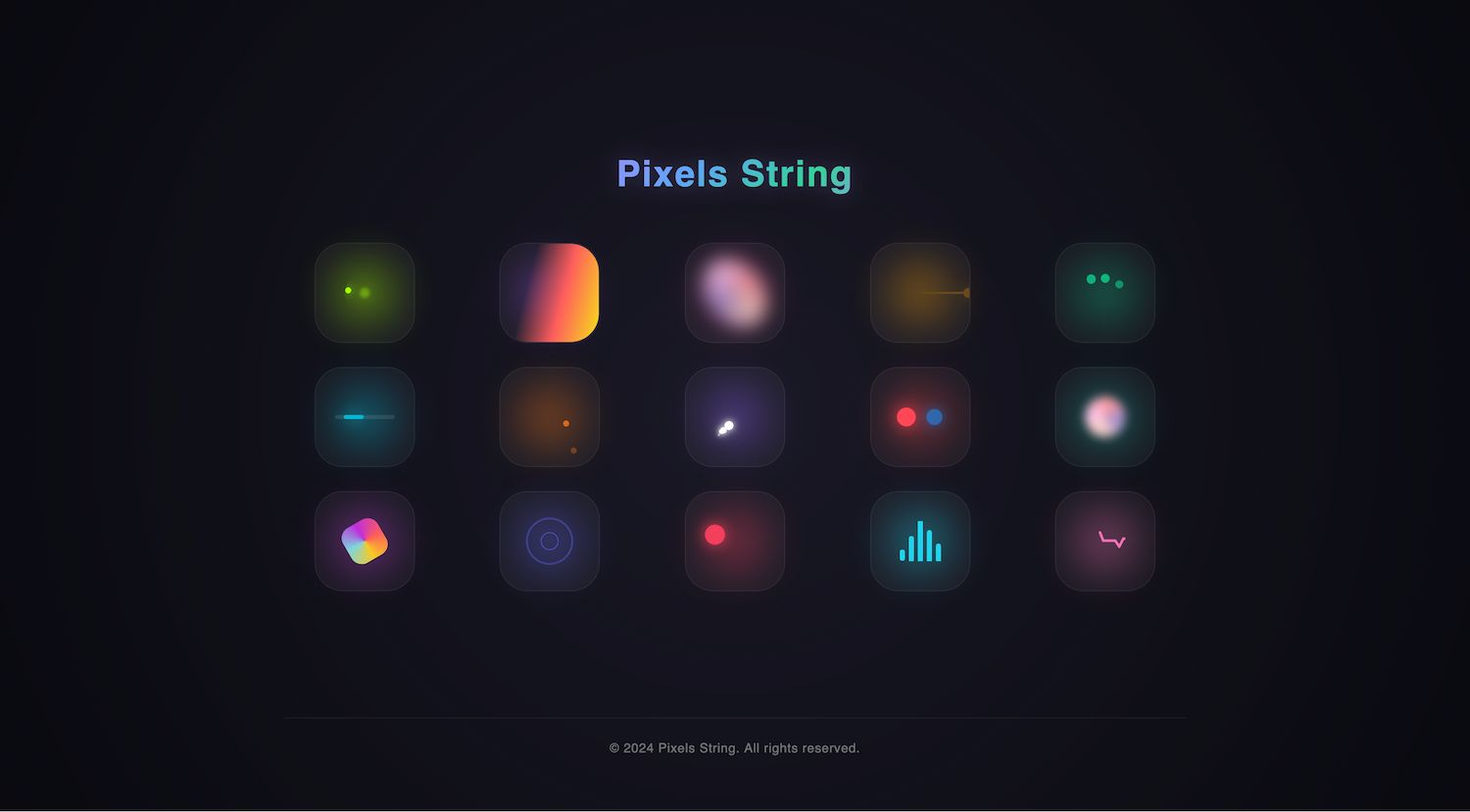
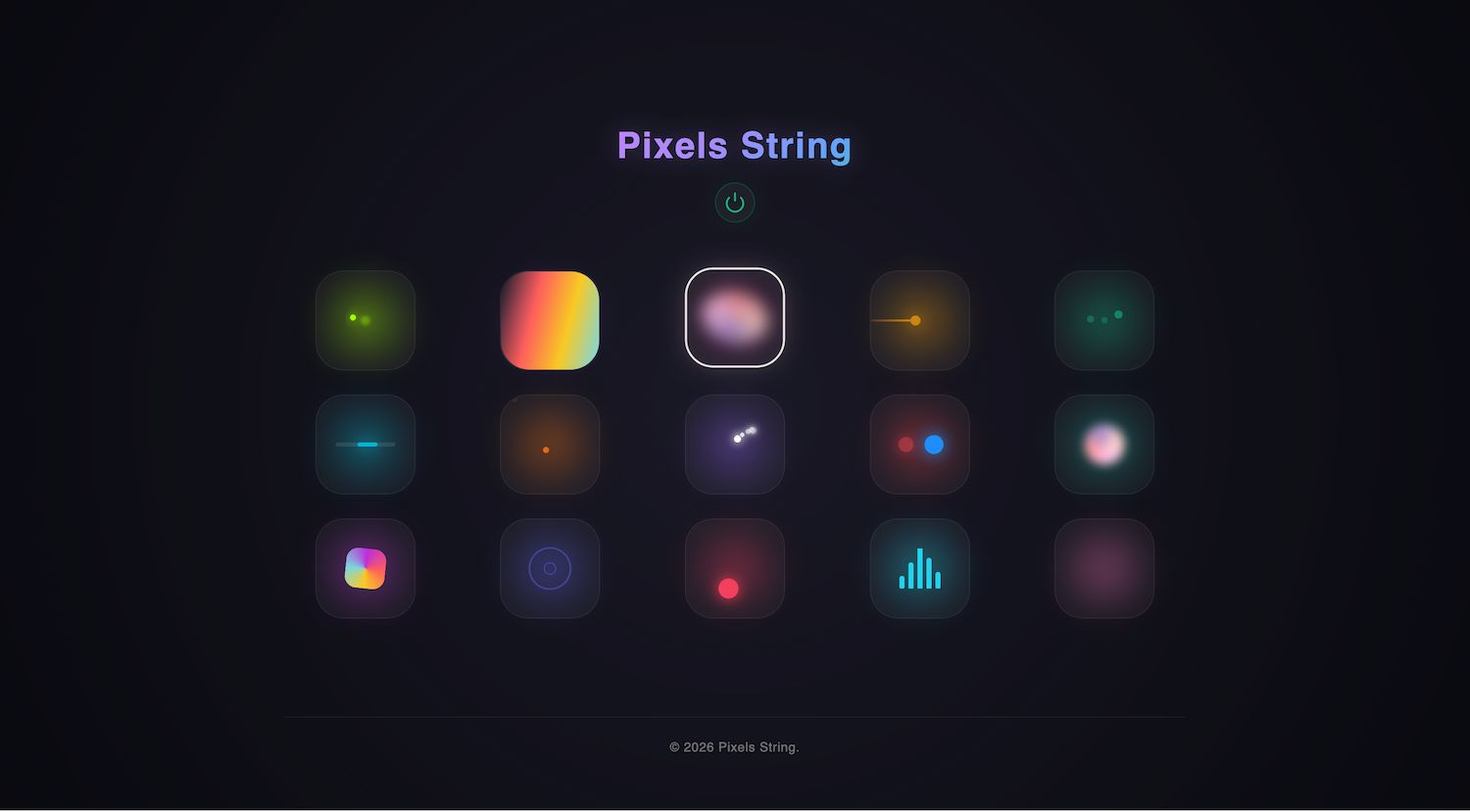
feat: adds power button to the dashboard page, updates screenshot

diff --git a/index.html b/index.html
@@ -98,7 +98,69 @@
             100% { background-position: 200% center; }
         }
 
+        /* --- POWER TOGGLE --- */
+        .power-toggle {
+            margin-top: 1rem;
+            padding: 0.5rem;
+            border-radius: 999px;
+            background: rgba(255, 255, 255, 0.04);
+            backdrop-filter: blur(6px);
+            border: 1px solid rgba(255, 255, 255, 0.08);
+            cursor: pointer;
+            user-select: none;
+            transition: all 0.3s ease;
+            display: flex;
+            align-items: center;
+            justify-content: center;
+            position: relative;
+        }
 
+        .power-toggle .power-icon {
+            width: 22px;
+            height: 22px;
+            fill: none;
+            stroke: currentColor;
+            stroke-width: 2;
+            stroke-linecap: round;
+            stroke-linejoin: round;
+            color: #10b981;
+            transition: color 0.4s ease;
+        }
+
+        .power-toggle:hover {
+            background: rgba(255, 255, 255, 0.08);
+            border-color: rgba(255, 255, 255, 0.15);
+            transform: translateY(-1px);
+        }
+
+        .power-toggle:active {
+            transform: scale(0.95);
+        }
+
+        .power-toggle:focus-visible {
+            outline: 2px solid #06b6d4;
+            outline-offset: 4px;
+        }
+
+        .power-toggle.off {
+            color: #6b7280;
+            border-color: rgba(107, 114, 128, 0.15);
+            box-shadow: none;
+        }
+
+        .power-toggle.off .power-icon {
+            color: #6b7280;
+        }
+
+        .power-toggle.on {
+            border-color: rgba(16, 185, 129, 0.25);
+            box-shadow: 0 0 20px rgba(16, 185, 129, 0.08), inset 0 0 15px rgba(16, 185, 129, 0.04);
+        }
+
+        .power-toggle.is-loading { opacity: 0.6; cursor: wait; }
+        .power-toggle.is-success { border-color: rgba(16, 185, 129, 0.5); box-shadow: 0 0 25px rgba(16, 185, 129, 0.2); }
+        .power-toggle.is-error { border-color: rgba(239, 68, 68, 0.5); box-shadow: 0 0 25px rgba(239, 68, 68, 0.2); }
+        .power-toggle.is-error .power-icon { color: #ef4444; }
 
         /* --- GRID --- */
         .grid-container {
@@ -145,7 +207,7 @@
         .card:active { transform: scale(0.95); }
 
         /* Tooltip */
-        .card[data-tooltip]:hover::after {
+        [data-tooltip]:hover::after {
             content: attr(data-tooltip);
             position: absolute;
             bottom: -40px;
@@ -418,6 +480,13 @@
 
     <div class="page-header">
         <h1 class="page-title">Pixels String</h1>
+
+        <div class="power-toggle on" role="button" tabindex="0" aria-label="Toggle power" id="powerToggle" data-tooltip="Power">
+            <svg class="power-icon" viewBox="0 0 24 24" xmlns="http://www.w3.org/2000/svg">
+                <path d="M12 2v8" />
+                <path d="M18.36 6.64a9 9 0 1 1-12.73 0" />
+            </svg>
+        </div>
     </div>
 
     <div class="grid-container">
@@ -545,6 +614,77 @@
 
     <script>
         document.addEventListener('DOMContentLoaded', () => {
+            // --- POWER TOGGLE ---
+            const powerToggle = document.getElementById('powerToggle');
+
+            // Fetch initial power state from the API
+            async function fetchPowerState() {
+                try {
+                    const response = await fetch('/api/info');
+                    if (response.ok) {
+                        const data = await response.json();
+                        if (data.power === 'on') {
+                            powerToggle.classList.remove('off');
+                            powerToggle.classList.add('on');
+                            powerToggle.setAttribute('aria-label', 'Toggle power off');
+                        } else {
+                            powerToggle.classList.remove('on');
+                            powerToggle.classList.add('off');
+                            powerToggle.setAttribute('aria-label', 'Toggle power on');
+                        }
+                    }
+                } catch (error) {
+                    console.error('Failed to fetch power state:', error);
+                }
+            }
+
+            if (powerToggle) {
+                fetchPowerState();
+
+                powerToggle.addEventListener('click', async () => {
+                    const isOn = powerToggle.classList.contains('on');
+                    const newState = isOn ? 'off' : 'on';
+                    const apiUrl = `/api/power?state=${newState}`;
+
+                    powerToggle.classList.add('is-loading');
+
+                    try {
+                        const response = await fetch(apiUrl);
+                        if (response.ok) {
+                            if (newState === 'on') {
+                                powerToggle.classList.remove('off');
+                                powerToggle.classList.add('on');
+                                powerToggle.setAttribute('aria-label', 'Toggle power off');
+                            } else {
+                                powerToggle.classList.remove('on');
+                                powerToggle.classList.add('off');
+                                powerToggle.setAttribute('aria-label', 'Toggle power on');
+                            }
+                            console.log(`✅ ${apiUrl}`);
+                            powerToggle.classList.add('is-success');
+                        } else {
+                            console.error(`❌ API Error ${response.status}`);
+                            powerToggle.classList.add('is-error');
+                        }
+                    } catch (error) {
+                        console.error(`❌ Network Error: ${error.message}`);
+                        powerToggle.classList.add('is-error');
+                    } finally {
+                        powerToggle.classList.remove('is-loading');
+                        setTimeout(() => {
+                            powerToggle.classList.remove('is-success', 'is-error');
+                        }, 1000);
+                    }
+                });
+
+                powerToggle.addEventListener('keydown', (e) => {
+                    if (e.key === 'Enter' || e.key === ' ') {
+                        e.preventDefault();
+                        powerToggle.click();
+                    }
+                });
+            }
+
             const cards = document.querySelectorAll('.card');
 
             // Set ARIA roles for accessibility

diff --git a/dashboard_html.h b/dashboard_html.h
@@ -16,7 +16,7 @@ const char dashboard_html[] = R"HTML_DELIMITER(
             "price": "0",
             "priceCurrency": "USD"
         }
-    }</script><style>*{margin:0;padding:0;box-sizing:border-box}body{min-height:100vh;display:flex;flex-direction:column;align-items:center;background:radial-gradient(circle at 50% 50%,#1a1926,#0a0a10);font-family:sans-serif;overflow-x:hidden;position:relative;padding:2rem}.stars{position:absolute;inset:0;pointer-events:none;z-index:0;box-shadow:10px 20px 1px rgba(255,255,255,.3),50px 80px 1px rgba(255,255,255,.4),120px 300px 1px rgba(255,255,255,.2),400px 150px 1px rgba(255,255,255,.5),800px 250px 1px rgba(255,255,255,.3),100px 600px 1px rgba(255,255,255,.4),500px 800px 1px rgba(255,255,255,.2),250px 900px 1px rgba(255,255,255,.5)}.page-header{display:flex;flex-direction:column;align-items:center;justify-content:center;width:100%;max-width:900px;margin-bottom:3rem;position:relative;z-index:2}.page-title{font-size:2.25rem;font-weight:700;letter-spacing:.04em;background:linear-gradient(135deg,#c084fc 0,#a78bfa 25%,#60a5fa 50%,#34d399 75%,#a78bfa 100%);background-size:200% auto;-webkit-background-clip:text;background-clip:text;-webkit-text-fill-color:transparent;animation:title-shimmer 6s ease-in-out infinite alternate;filter:drop-shadow(0 0 12px rgba(167, 139, 250, .3))}@keyframes title-shimmer{0%{background-position:0 center}100%{background-position:200% center}}.grid-container{position:relative;z-index:1;display:grid;grid-template-columns:repeat(5,1fr);gap:1.5rem;max-width:900px;width:100%;justify-items:center}@media (max-width:900px){.grid-container{grid-template-columns:repeat(3,1fr)}}@media (max-width:600px){body{padding:1rem}.grid-container{grid-template-columns:repeat(3,1fr);gap:1rem;margin-bottom:2rem}.control-panel{margin-bottom:1.5rem}.site-footer{padding:1rem 0}.page-title{font-size:1.75rem}}.card{width:100px;height:100px;border-radius:28px;background:rgba(255,255,255,.04);backdrop-filter:blur(4px);border:1px solid rgba(255,255,255,.06);display:flex;align-items:center;justify-content:center;position:relative;cursor:pointer;overflow:visible;transition:transform .2s ease,box-shadow .3s ease,border .2s ease;isolation:isolate}.card:hover{transform:translateY(-5px) scale(1.02);z-index:10}.card:active{transform:scale(.95)}.card[data-tooltip]:hover::after{content:attr(data-tooltip);position:absolute;bottom:-40px;left:50%;transform:translateX(-50%);background:rgba(0,0,0,.8);backdrop-filter:blur(4px);color:#fff;padding:6px 14px;border-radius:8px;font-size:12px;font-weight:500;white-space:nowrap;border:1px solid rgba(255,255,255,.1);pointer-events:none;z-index:20;box-shadow:0 4px 15px rgba(0,0,0,.5)}.card::before{content:'';position:absolute;inset:0;border-radius:inherit;opacity:.5;background:radial-gradient(circle at center,var(--glow) 0,transparent 70%);filter:blur(18px);z-index:0;transition:opacity .4s ease,transform .4s ease}.card:hover::before{opacity:.9;transform:scale(1.2);filter:blur(25px)}.card.active-selected{border:2px solid rgba(255,255,255,.9);box-shadow:0 0 25px rgba(255,255,255,.15),inset 0 0 20px rgba(255,255,255,.05);transform:translateY(-3px)}.icon-wrapper{position:relative;z-index:1;display:flex;align-items:center;justify-content:center;width:100%;height:100%;color:var(--glow);border-radius:inherit;overflow:hidden}.card.is-loading{opacity:.7;cursor:wait}.card.is-success::before{background:radial-gradient(circle at center,#10b981 0,transparent 70%)!important;filter:blur(25px)!important;opacity:1!important}.card.is-error::before{background:radial-gradient(circle at center,#ef4444 0,transparent 70%)!important;filter:blur(25px)!important;opacity:1!important}.variation-toast{position:absolute;top:50%;left:50%;transform:translate(-50%,-50%) scale(0);background:rgba(0,0,0,.9);backdrop-filter:blur(8px);color:#fff;font-size:1.5rem;font-weight:700;padding:8px 14px;border-radius:12px;border:1px solid rgba(255,255,255,.15);opacity:0;pointer-events:none;z-index:10;box-shadow:0 4px 20px rgba(0,0,0,.8);font-family:'Courier New',Courier,monospace}.variation-toast.active{animation:toastFade 1.2s forwards}@keyframes toastFade{0%{transform:translate(-50%,-50%) scale(.5);opacity:0}15%{transform:translate(-50%,-50%) scale(1.2);opacity:1}80%{transform:translate(-50%,-50%) scale(1);opacity:1}100%{transform:translate(-50%,-50%) scale(.8);opacity:0}}.fireflies{position:relative;width:40px;height:40px}.firefly-main{position:absolute;width:12px;height:12px;border-radius:50%;background:currentColor;top:50%;left:50%;transform:translate(-50%,-50%);filter:blur(2px);box-shadow:0 0 20px currentColor;animation:pulse-glow 2.5s ease-in-out infinite alternate}.firefly-orb{position:absolute;width:6px;height:6px;border-radius:50%;background:currentColor;box-shadow:0 0 10px currentColor}.firefly-orb:nth-child(2){top:0;left:50%;transform:translateX(-50%);animation:orbit-ccw 4s linear infinite}.firefly-orb:nth-child(3){bottom:20%;left:10%;animation:orbit-cw 5s linear infinite 1s}@keyframes pulse-glow{0%{transform:translate(-50%,-50%) scale(.8);opacity:.4}100%{transform:translate(-50%,-50%) scale(1.3);opacity:1}}@keyframes orbit-ccw{0%{transform:rotate(0) translateX(18px) rotate(0)}100%{transform:rotate(-360deg) translateX(18px) rotate(360deg)}}@keyframes orbit-cw{0%{transform:rotate(0) translateX(12px) rotate(0)}100%{transform:rotate(360deg) translateX(12px) rotate(-360deg)}}.rainbow-swipe{position:absolute;width:200%;height:100%;top:0;left:-50%;background:linear-gradient(90deg,transparent,#ff5e5e,#f9ca24,#7ed6df,#be2edd,transparent);animation:swipe 2s linear infinite;transform:skewX(-15deg);pointer-events:none}@keyframes swipe{0%{left:-50%}100%{left:50%}}.aurora{width:80px;height:60px;border-radius:50%;filter:blur(10px);background:conic-gradient(from 0deg,#ff9a9e,#fad0c4,#a18cd1,#fbc2eb,#ff9a9e);animation:aurora-move 4s ease-in-out infinite alternate;opacity:.8}@keyframes aurora-move{0%{transform:scale(.8) rotate(0)}100%{transform:scale(1.2) rotate(180deg)}}.comet{position:absolute;width:10px;height:10px;border-radius:50%;background:currentColor;top:50%;left:10%;animation:comet-fly 2s linear infinite;box-shadow:0 0 15px currentColor;pointer-events:none;margin-top:-5px}.comet::before{content:'';position:absolute;width:50px;height:2px;background:linear-gradient(to left,currentColor,transparent);top:50%;right:100%;transform:translateY(-50%)}@keyframes comet-fly{0%{transform:translate(-30px,0);opacity:0}20%{opacity:1}100%{transform:translate(120px,0);opacity:0}}.chasing-dots{display:flex;gap:6px}.dot{width:8px;height:8px;border-radius:50%;background:currentColor;animation:chase .9s ease-in-out infinite alternate}.dot:nth-child(2){animation-delay:.3s}.dot:nth-child(3){animation-delay:.6s}@keyframes chase{0%{transform:translateY(0) scale(.8);opacity:.3}100%{transform:translateY(-15px) scale(1.2);opacity:1}}.cylon{width:60px;height:4px;background:rgba(255,255,255,.1);border-radius:4px;position:relative}.cylon-bar{position:absolute;width:20px;height:100%;border-radius:4px;background:currentColor;box-shadow:0 0 15px currentColor;animation:cylon-sweep 1.5s ease-in-out infinite alternate}@keyframes cylon-sweep{0%{left:0}100%{left:calc(100% - 20px)}}.dual-comet{position:relative;width:100%;height:100%}.comet-1{position:absolute;top:20%;left:10%;width:6px;height:6px;border-radius:50%;background:currentColor;animation:fly-diagonal 2s linear infinite;pointer-events:none}.comet-2{position:absolute;bottom:20%;right:10%;width:6px;height:6px;border-radius:50%;background:currentColor;animation:fly-diagonal-reverse 2s linear infinite 1s;pointer-events:none}@keyframes fly-diagonal{0%{transform:translate(0,0);opacity:0}30%{opacity:1}100%{transform:translate(80px,80px);opacity:0}}@keyframes fly-diagonal-reverse{0%{transform:translate(0,0);opacity:0}30%{opacity:1}100%{transform:translate(-80px,-80px);opacity:0}}.sparkle-sweep{position:relative;width:44px;height:44px}.sparkle-particle{position:absolute;border-radius:50%;background:#fff;color:#fff;box-shadow:0 0 6px #fff,0 0 14px rgba(255,255,255,.6);pointer-events:none;animation:sweep-arc 1.8s ease-in-out infinite}.sparkle-particle:nth-child(1){width:8px;height:8px;animation-delay:0s}.sparkle-particle:nth-child(2){width:6px;height:6px;animation-delay:.12s}.sparkle-particle:nth-child(3){width:5px;height:5px;animation-delay:.24s}.sparkle-particle:nth-child(4){width:4px;height:4px;animation-delay:.36s}.sparkle-particle:nth-child(5){width:3px;height:3px;animation-delay:.48s}.sparkle-particle:nth-child(6){width:5px;height:5px;animation-delay:.6s}@keyframes sweep-arc{0%{transform:translate(2px,42px) scale(0);opacity:0}15%{opacity:1;transform:translate(6px,34px) scale(1)}45%{transform:translate(22px,14px) scale(1.4);opacity:1}75%{transform:translate(36px,4px) scale(.9);opacity:.5}100%{transform:translate(44px,-2px) scale(0);opacity:0}}.police{display:flex;gap:12px}.police-light{width:16px;height:16px;border-radius:50%;background:currentColor;animation:blink .5s ease-in-out infinite alternate;box-shadow:0 0 15px currentColor}.police-light:nth-child(1){color:#ff4757;animation-delay:0s}.police-light:nth-child(2){color:#1e90ff;animation-delay:.25s}@keyframes blink{0%{opacity:.2;transform:scale(.8)}100%{opacity:1;transform:scale(1.2)}}.plasma{width:40px;height:40px;border-radius:50%;background:conic-gradient(from 0deg,#ff9a9e,#a18cd1,#fad0c4,#fbc2eb,#ff9a9e);animation:spin-plasma 2s linear infinite;filter:blur(5px);pointer-events:none}@keyframes spin-plasma{100%{transform:rotate(360deg)}}.rainbow-grad{width:40px;height:40px;border-radius:12px;background:conic-gradient(#ff5e5e,#f9ca24,#7ed6df,#be2edd,#ff5e5e);animation:spin-rainbow 3s linear infinite;pointer-events:none}@keyframes spin-rainbow{100%{transform:rotate(360deg)}}.pulse-wave{display:flex;align-items:center;justify-content:center;width:50px;height:50px}.ring{position:absolute;border:2px solid currentColor;border-radius:50%;animation:pulse 2s ease-out infinite;width:100%;height:100%;pointer-events:none}.ring:nth-child(2){animation-delay:.6s}.ring:nth-child(3){animation-delay:1.2s}@keyframes pulse{0%{transform:scale(0);opacity:1}100%{transform:scale(1.5);opacity:0}}.single-runner{width:20px;height:20px;border-radius:50%;background:currentColor;box-shadow:0 0 15px currentColor;animation:run-square 1.2s linear infinite;pointer-events:none}@keyframes run-square{0%{transform:translate(-20px,-20px)}25%{transform:translate(20px,-20px)}50%{transform:translate(20px,20px)}75%{transform:translate(-20px,20px)}100%{transform:translate(-20px,-20px)}}.audio-viz{display:flex;align-items:flex-end;gap:4px;height:40px}.bar{width:5px;height:100%;background:currentColor;border-radius:2px;animation:bounce-bar .7s ease-in-out infinite alternate}.bar:nth-child(1){height:30%;animation-delay:.1s}.bar:nth-child(2){height:60%;animation-delay:.2s}.bar:nth-child(3){height:100%;animation-delay:.3s}.bar:nth-child(4){height:70%;animation-delay:.4s}.bar:nth-child(5){height:40%;animation-delay:.5s}@keyframes bounce-bar{0%{transform:scaleY(.5)}100%{transform:scaleY(1.2)}}.heartbeat-svg{width:40px;height:25px;stroke:currentColor;stroke-width:2.5;fill:none;stroke-linecap:round;stroke-linejoin:round}.heartbeat-line{animation:draw-beat 1.5s ease-in-out infinite}@keyframes draw-beat{0%{stroke-dashoffset:100;stroke-dasharray:100}50%{stroke-dashoffset:0;stroke-dasharray:100}100%{stroke-dashoffset:-100;stroke-dasharray:100}}.skip-link{position:absolute;top:-100%;left:0;z-index:100;padding:.5rem 1rem;background:#06b6d4;color:#fff;font-size:.85rem;text-decoration:none;transition:top .2s}.skip-link:focus{top:0}main{flex:1;display:flex;flex-direction:column;align-items:center;justify-content:center;width:100%}.site-footer{margin-top:auto;position:relative;z-index:2;padding:1.5rem 0;text-align:center;color:rgba(255,255,255,.4);font-size:.8rem;letter-spacing:.5px;border-top:1px solid rgba(255,255,255,.06);width:100%;max-width:900px}.card:focus-visible{outline:2px solid #06b6d4;outline-offset:4px}</style></head><body><a href="#main-content" class="skip-link">Skip to content</a><div class="stars" aria-hidden="true"></div><main id="main-content"><div class="page-header"><h1 class="page-title">Pixels String</h1></div><div class="grid-container"><div class="card" data-effect="FIREFLIES" data-tooltip="FIREFLIES" style="--glow:#a3ff00"><div class="icon-wrapper fireflies"><div class="firefly-main"></div><div class="firefly-orb"></div><div class="firefly-orb"></div></div><div class="variation-toast"></div></div><div class="card" data-effect="RAINBOW_SWIPE" data-tooltip="RAINBOW_SWIPE" style="--glow:#a855f7"><div class="icon-wrapper"><div class="rainbow-swipe"></div></div><div class="variation-toast"></div></div><div class="card" data-effect="AURORA" data-tooltip="AURORA" style="--glow:#ec4899"><div class="icon-wrapper"><div class="aurora"></div></div><div class="variation-toast"></div></div><div class="card" data-effect="COMET" data-tooltip="COMET" style="--glow:#f59e0b"><div class="icon-wrapper"><div class="comet"></div></div><div class="variation-toast"></div></div><div class="card" data-effect="CHASING_DOTS" data-tooltip="CHASING_DOTS" style="--glow:#10b981"><div class="icon-wrapper chasing-dots"><div class="dot"></div><div class="dot"></div><div class="dot"></div></div><div class="variation-toast"></div></div><div class="card" data-effect="CYLON" data-tooltip="CYLON" style="--glow:#06b6d4"><div class="icon-wrapper"><div class="cylon"><div class="cylon-bar"></div></div></div><div class="variation-toast"></div></div><div class="card" data-effect="DUAL_COMET" data-tooltip="DUAL_COMET" style="--glow:#f97316"><div class="icon-wrapper dual-comet"><div class="comet-1"></div><div class="comet-2"></div></div><div class="variation-toast"></div></div><div class="card" data-effect="SPARKLE_SWEEP" data-tooltip="SPARKLE_SWEEP" style="--glow:#8b5cf6"><div class="icon-wrapper"><div class="sparkle-sweep"><div class="sparkle-particle"></div><div class="sparkle-particle"></div><div class="sparkle-particle"></div><div class="sparkle-particle"></div><div class="sparkle-particle"></div><div class="sparkle-particle"></div></div></div><div class="variation-toast"></div></div><div class="card" data-effect="POLICE" data-tooltip="POLICE" style="--glow:#ef4444"><div class="icon-wrapper police"><div class="police-light"></div><div class="police-light"></div></div><div class="variation-toast"></div></div><div class="card" data-effect="PLASMA" data-tooltip="PLASMA" style="--glow:#14b8a6"><div class="icon-wrapper"><div class="plasma"></div></div><div class="variation-toast"></div></div><div class="card" data-effect="RAINBOW_GRADIENT" data-tooltip="RAINBOW_GRADIENT" style="--glow:#d946ef"><div class="icon-wrapper"><div class="rainbow-grad"></div></div><div class="variation-toast"></div></div><div class="card" data-effect="PULSE_WAVE" data-tooltip="PULSE_WAVE" style="--glow:#6366f1"><div class="icon-wrapper pulse-wave"><div class="ring"></div><div class="ring"></div><div class="ring"></div></div><div class="variation-toast"></div></div><div class="card" data-effect="SINGLE_RUNNER" data-tooltip="SINGLE_RUNNER" style="--glow:#f43f5e"><div class="icon-wrapper"><div class="single-runner"></div></div><div class="variation-toast"></div></div><div class="card" data-effect="AUDIO_VISUALIZER" data-tooltip="AUDIO_VISUALIZER" style="--glow:#22d3ee"><div class="icon-wrapper audio-viz"><div class="bar"></div><div class="bar"></div><div class="bar"></div><div class="bar"></div><div class="bar"></div></div><div class="variation-toast"></div></div><div class="card" data-effect="HEARTBEAT" data-tooltip="HEARTBEAT" style="--glow:#f472b6"><div class="icon-wrapper"><svg class="heartbeat-svg" viewBox="0 0 40 25"><polyline class="heartbeat-line" points="0,12 8,12 10,22 14,2 18,12 30,12 34,18 38,10 40,10" stroke="currentColor"/></svg></div><div class="variation-toast"></div></div></div></main><footer class="site-footer"><p>&copy; 2026 Pixels String.</p></footer><script>document.addEventListener("DOMContentLoaded",()=>{let l=document.querySelectorAll(".card"),d=(l.forEach(e=>{e.setAttribute("role","button"),e.setAttribute("tabindex","0");var t=e.dataset.effect||"effect";e.setAttribute("aria-label",`Activate ${t.replace(/_/g," ")} effect`)}),null),n=new Map;l.forEach(c=>{let o=c.dataset.effect;n.set(c,0),c.addEventListener("click",async()=>{if(!c.classList.contains("is-loading")){let e=0;var s,a,i;d!==c?(l.forEach(e=>e.classList.remove("active-selected")),c.classList.add("active-selected"),n.set(c,1),e=0,d=c):(s=((e=n.get(c)||0)+1)%5,n.set(c,s));let t="";t=0===e?"/api/effect?name="+o:"/api/variation?index="+e,s=c,0!==(a=e)&&(s=s.querySelector(".variation-toast"))&&(s.textContent=a,s.classList.remove("active"),s.offsetWidth,s.classList.add("active")),c.classList.add("is-loading");try{var r=await fetch(t);r.ok?(c.classList.remove("is-loading"),c.classList.add("is-success"),console.log("✅ "+t)):(c.classList.remove("is-loading"),c.classList.add("is-error"),console.error("❌ API Error "+r.status))}catch(e){c.classList.remove("is-loading"),c.classList.add("is-error"),console.error("❌ Network Error: "+e.message)}finally{i=c,setTimeout(()=>{i.classList.remove("is-success","is-error","is-loading")},1e3)}}})})})</script></body></html>
+    }</script><style>*{margin:0;padding:0;box-sizing:border-box}body{min-height:100vh;display:flex;flex-direction:column;align-items:center;background:radial-gradient(circle at 50% 50%,#1a1926,#0a0a10);font-family:sans-serif;overflow-x:hidden;position:relative;padding:2rem}.stars{position:absolute;inset:0;pointer-events:none;z-index:0;box-shadow:10px 20px 1px rgba(255,255,255,.3),50px 80px 1px rgba(255,255,255,.4),120px 300px 1px rgba(255,255,255,.2),400px 150px 1px rgba(255,255,255,.5),800px 250px 1px rgba(255,255,255,.3),100px 600px 1px rgba(255,255,255,.4),500px 800px 1px rgba(255,255,255,.2),250px 900px 1px rgba(255,255,255,.5)}.page-header{display:flex;flex-direction:column;align-items:center;justify-content:center;width:100%;max-width:900px;margin-bottom:3rem;position:relative;z-index:2}.page-title{font-size:2.25rem;font-weight:700;letter-spacing:.04em;background:linear-gradient(135deg,#c084fc 0,#a78bfa 25%,#60a5fa 50%,#34d399 75%,#a78bfa 100%);background-size:200% auto;-webkit-background-clip:text;background-clip:text;-webkit-text-fill-color:transparent;animation:title-shimmer 6s ease-in-out infinite alternate;filter:drop-shadow(0 0 12px rgba(167, 139, 250, .3))}@keyframes title-shimmer{0%{background-position:0 center}100%{background-position:200% center}}.power-toggle{margin-top:1rem;padding:.5rem;border-radius:999px;background:rgba(255,255,255,.04);backdrop-filter:blur(6px);border:1px solid rgba(255,255,255,.08);cursor:pointer;user-select:none;transition:all .3s ease;display:flex;align-items:center;justify-content:center;position:relative}.power-toggle .power-icon{width:22px;height:22px;fill:none;stroke:currentColor;stroke-width:2;stroke-linecap:round;stroke-linejoin:round;color:#10b981;transition:color .4s ease}.power-toggle:hover{background:rgba(255,255,255,.08);border-color:rgba(255,255,255,.15);transform:translateY(-1px)}.power-toggle:active{transform:scale(.95)}.power-toggle:focus-visible{outline:2px solid #06b6d4;outline-offset:4px}.power-toggle.off{color:#6b7280;border-color:rgba(107,114,128,.15);box-shadow:none}.power-toggle.off .power-icon{color:#6b7280}.power-toggle.on{border-color:rgba(16,185,129,.25);box-shadow:0 0 20px rgba(16,185,129,.08),inset 0 0 15px rgba(16,185,129,.04)}.power-toggle.is-loading{opacity:.6;cursor:wait}.power-toggle.is-success{border-color:rgba(16,185,129,.5);box-shadow:0 0 25px rgba(16,185,129,.2)}.power-toggle.is-error{border-color:rgba(239,68,68,.5);box-shadow:0 0 25px rgba(239,68,68,.2)}.power-toggle.is-error .power-icon{color:#ef4444}.grid-container{position:relative;z-index:1;display:grid;grid-template-columns:repeat(5,1fr);gap:1.5rem;max-width:900px;width:100%;justify-items:center}@media (max-width:900px){.grid-container{grid-template-columns:repeat(3,1fr)}}@media (max-width:600px){body{padding:1rem}.grid-container{grid-template-columns:repeat(3,1fr);gap:1rem;margin-bottom:2rem}.control-panel{margin-bottom:1.5rem}.site-footer{padding:1rem 0}.page-title{font-size:1.75rem}}.card{width:100px;height:100px;border-radius:28px;background:rgba(255,255,255,.04);backdrop-filter:blur(4px);border:1px solid rgba(255,255,255,.06);display:flex;align-items:center;justify-content:center;position:relative;cursor:pointer;overflow:visible;transition:transform .2s ease,box-shadow .3s ease,border .2s ease;isolation:isolate}.card:hover{transform:translateY(-5px) scale(1.02);z-index:10}.card:active{transform:scale(.95)}[data-tooltip]:hover::after{content:attr(data-tooltip);position:absolute;bottom:-40px;left:50%;transform:translateX(-50%);background:rgba(0,0,0,.8);backdrop-filter:blur(4px);color:#fff;padding:6px 14px;border-radius:8px;font-size:12px;font-weight:500;white-space:nowrap;border:1px solid rgba(255,255,255,.1);pointer-events:none;z-index:20;box-shadow:0 4px 15px rgba(0,0,0,.5)}.card::before{content:'';position:absolute;inset:0;border-radius:inherit;opacity:.5;background:radial-gradient(circle at center,var(--glow) 0,transparent 70%);filter:blur(18px);z-index:0;transition:opacity .4s ease,transform .4s ease}.card:hover::before{opacity:.9;transform:scale(1.2);filter:blur(25px)}.card.active-selected{border:2px solid rgba(255,255,255,.9);box-shadow:0 0 25px rgba(255,255,255,.15),inset 0 0 20px rgba(255,255,255,.05);transform:translateY(-3px)}.icon-wrapper{position:relative;z-index:1;display:flex;align-items:center;justify-content:center;width:100%;height:100%;color:var(--glow);border-radius:inherit;overflow:hidden}.card.is-loading{opacity:.7;cursor:wait}.card.is-success::before{background:radial-gradient(circle at center,#10b981 0,transparent 70%)!important;filter:blur(25px)!important;opacity:1!important}.card.is-error::before{background:radial-gradient(circle at center,#ef4444 0,transparent 70%)!important;filter:blur(25px)!important;opacity:1!important}.variation-toast{position:absolute;top:50%;left:50%;transform:translate(-50%,-50%) scale(0);background:rgba(0,0,0,.9);backdrop-filter:blur(8px);color:#fff;font-size:1.5rem;font-weight:700;padding:8px 14px;border-radius:12px;border:1px solid rgba(255,255,255,.15);opacity:0;pointer-events:none;z-index:10;box-shadow:0 4px 20px rgba(0,0,0,.8);font-family:'Courier New',Courier,monospace}.variation-toast.active{animation:toastFade 1.2s forwards}@keyframes toastFade{0%{transform:translate(-50%,-50%) scale(.5);opacity:0}15%{transform:translate(-50%,-50%) scale(1.2);opacity:1}80%{transform:translate(-50%,-50%) scale(1);opacity:1}100%{transform:translate(-50%,-50%) scale(.8);opacity:0}}.fireflies{position:relative;width:40px;height:40px}.firefly-main{position:absolute;width:12px;height:12px;border-radius:50%;background:currentColor;top:50%;left:50%;transform:translate(-50%,-50%);filter:blur(2px);box-shadow:0 0 20px currentColor;animation:pulse-glow 2.5s ease-in-out infinite alternate}.firefly-orb{position:absolute;width:6px;height:6px;border-radius:50%;background:currentColor;box-shadow:0 0 10px currentColor}.firefly-orb:nth-child(2){top:0;left:50%;transform:translateX(-50%);animation:orbit-ccw 4s linear infinite}.firefly-orb:nth-child(3){bottom:20%;left:10%;animation:orbit-cw 5s linear infinite 1s}@keyframes pulse-glow{0%{transform:translate(-50%,-50%) scale(.8);opacity:.4}100%{transform:translate(-50%,-50%) scale(1.3);opacity:1}}@keyframes orbit-ccw{0%{transform:rotate(0) translateX(18px) rotate(0)}100%{transform:rotate(-360deg) translateX(18px) rotate(360deg)}}@keyframes orbit-cw{0%{transform:rotate(0) translateX(12px) rotate(0)}100%{transform:rotate(360deg) translateX(12px) rotate(-360deg)}}.rainbow-swipe{position:absolute;width:200%;height:100%;top:0;left:-50%;background:linear-gradient(90deg,transparent,#ff5e5e,#f9ca24,#7ed6df,#be2edd,transparent);animation:swipe 2s linear infinite;transform:skewX(-15deg);pointer-events:none}@keyframes swipe{0%{left:-50%}100%{left:50%}}.aurora{width:80px;height:60px;border-radius:50%;filter:blur(10px);background:conic-gradient(from 0deg,#ff9a9e,#fad0c4,#a18cd1,#fbc2eb,#ff9a9e);animation:aurora-move 4s ease-in-out infinite alternate;opacity:.8}@keyframes aurora-move{0%{transform:scale(.8) rotate(0)}100%{transform:scale(1.2) rotate(180deg)}}.comet{position:absolute;width:10px;height:10px;border-radius:50%;background:currentColor;top:50%;left:10%;animation:comet-fly 2s linear infinite;box-shadow:0 0 15px currentColor;pointer-events:none;margin-top:-5px}.comet::before{content:'';position:absolute;width:50px;height:2px;background:linear-gradient(to left,currentColor,transparent);top:50%;right:100%;transform:translateY(-50%)}@keyframes comet-fly{0%{transform:translate(-30px,0);opacity:0}20%{opacity:1}100%{transform:translate(120px,0);opacity:0}}.chasing-dots{display:flex;gap:6px}.dot{width:8px;height:8px;border-radius:50%;background:currentColor;animation:chase .9s ease-in-out infinite alternate}.dot:nth-child(2){animation-delay:.3s}.dot:nth-child(3){animation-delay:.6s}@keyframes chase{0%{transform:translateY(0) scale(.8);opacity:.3}100%{transform:translateY(-15px) scale(1.2);opacity:1}}.cylon{width:60px;height:4px;background:rgba(255,255,255,.1);border-radius:4px;position:relative}.cylon-bar{position:absolute;width:20px;height:100%;border-radius:4px;background:currentColor;box-shadow:0 0 15px currentColor;animation:cylon-sweep 1.5s ease-in-out infinite alternate}@keyframes cylon-sweep{0%{left:0}100%{left:calc(100% - 20px)}}.dual-comet{position:relative;width:100%;height:100%}.comet-1{position:absolute;top:20%;left:10%;width:6px;height:6px;border-radius:50%;background:currentColor;animation:fly-diagonal 2s linear infinite;pointer-events:none}.comet-2{position:absolute;bottom:20%;right:10%;width:6px;height:6px;border-radius:50%;background:currentColor;animation:fly-diagonal-reverse 2s linear infinite 1s;pointer-events:none}@keyframes fly-diagonal{0%{transform:translate(0,0);opacity:0}30%{opacity:1}100%{transform:translate(80px,80px);opacity:0}}@keyframes fly-diagonal-reverse{0%{transform:translate(0,0);opacity:0}30%{opacity:1}100%{transform:translate(-80px,-80px);opacity:0}}.sparkle-sweep{position:relative;width:44px;height:44px}.sparkle-particle{position:absolute;border-radius:50%;background:#fff;color:#fff;box-shadow:0 0 6px #fff,0 0 14px rgba(255,255,255,.6);pointer-events:none;animation:sweep-arc 1.8s ease-in-out infinite}.sparkle-particle:nth-child(1){width:8px;height:8px;animation-delay:0s}.sparkle-particle:nth-child(2){width:6px;height:6px;animation-delay:.12s}.sparkle-particle:nth-child(3){width:5px;height:5px;animation-delay:.24s}.sparkle-particle:nth-child(4){width:4px;height:4px;animation-delay:.36s}.sparkle-particle:nth-child(5){width:3px;height:3px;animation-delay:.48s}.sparkle-particle:nth-child(6){width:5px;height:5px;animation-delay:.6s}@keyframes sweep-arc{0%{transform:translate(2px,42px) scale(0);opacity:0}15%{opacity:1;transform:translate(6px,34px) scale(1)}45%{transform:translate(22px,14px) scale(1.4);opacity:1}75%{transform:translate(36px,4px) scale(.9);opacity:.5}100%{transform:translate(44px,-2px) scale(0);opacity:0}}.police{display:flex;gap:12px}.police-light{width:16px;height:16px;border-radius:50%;background:currentColor;animation:blink .5s ease-in-out infinite alternate;box-shadow:0 0 15px currentColor}.police-light:nth-child(1){color:#ff4757;animation-delay:0s}.police-light:nth-child(2){color:#1e90ff;animation-delay:.25s}@keyframes blink{0%{opacity:.2;transform:scale(.8)}100%{opacity:1;transform:scale(1.2)}}.plasma{width:40px;height:40px;border-radius:50%;background:conic-gradient(from 0deg,#ff9a9e,#a18cd1,#fad0c4,#fbc2eb,#ff9a9e);animation:spin-plasma 2s linear infinite;filter:blur(5px);pointer-events:none}@keyframes spin-plasma{100%{transform:rotate(360deg)}}.rainbow-grad{width:40px;height:40px;border-radius:12px;background:conic-gradient(#ff5e5e,#f9ca24,#7ed6df,#be2edd,#ff5e5e);animation:spin-rainbow 3s linear infinite;pointer-events:none}@keyframes spin-rainbow{100%{transform:rotate(360deg)}}.pulse-wave{display:flex;align-items:center;justify-content:center;width:50px;height:50px}.ring{position:absolute;border:2px solid currentColor;border-radius:50%;animation:pulse 2s ease-out infinite;width:100%;height:100%;pointer-events:none}.ring:nth-child(2){animation-delay:.6s}.ring:nth-child(3){animation-delay:1.2s}@keyframes pulse{0%{transform:scale(0);opacity:1}100%{transform:scale(1.5);opacity:0}}.single-runner{width:20px;height:20px;border-radius:50%;background:currentColor;box-shadow:0 0 15px currentColor;animation:run-square 1.2s linear infinite;pointer-events:none}@keyframes run-square{0%{transform:translate(-20px,-20px)}25%{transform:translate(20px,-20px)}50%{transform:translate(20px,20px)}75%{transform:translate(-20px,20px)}100%{transform:translate(-20px,-20px)}}.audio-viz{display:flex;align-items:flex-end;gap:4px;height:40px}.bar{width:5px;height:100%;background:currentColor;border-radius:2px;animation:bounce-bar .7s ease-in-out infinite alternate}.bar:nth-child(1){height:30%;animation-delay:.1s}.bar:nth-child(2){height:60%;animation-delay:.2s}.bar:nth-child(3){height:100%;animation-delay:.3s}.bar:nth-child(4){height:70%;animation-delay:.4s}.bar:nth-child(5){height:40%;animation-delay:.5s}@keyframes bounce-bar{0%{transform:scaleY(.5)}100%{transform:scaleY(1.2)}}.heartbeat-svg{width:40px;height:25px;stroke:currentColor;stroke-width:2.5;fill:none;stroke-linecap:round;stroke-linejoin:round}.heartbeat-line{animation:draw-beat 1.5s ease-in-out infinite}@keyframes draw-beat{0%{stroke-dashoffset:100;stroke-dasharray:100}50%{stroke-dashoffset:0;stroke-dasharray:100}100%{stroke-dashoffset:-100;stroke-dasharray:100}}.skip-link{position:absolute;top:-100%;left:0;z-index:100;padding:.5rem 1rem;background:#06b6d4;color:#fff;font-size:.85rem;text-decoration:none;transition:top .2s}.skip-link:focus{top:0}main{flex:1;display:flex;flex-direction:column;align-items:center;justify-content:center;width:100%}.site-footer{margin-top:auto;position:relative;z-index:2;padding:1.5rem 0;text-align:center;color:rgba(255,255,255,.4);font-size:.8rem;letter-spacing:.5px;border-top:1px solid rgba(255,255,255,.06);width:100%;max-width:900px}.card:focus-visible{outline:2px solid #06b6d4;outline-offset:4px}</style></head><body><a href="#main-content" class="skip-link">Skip to content</a><div class="stars" aria-hidden="true"></div><main id="main-content"><div class="page-header"><h1 class="page-title">Pixels String</h1><div class="power-toggle on" role="button" tabindex="0" aria-label="Toggle power" id="powerToggle" data-tooltip="Power"><svg class="power-icon" viewBox="0 0 24 24" xmlns="http://www.w3.org/2000/svg"><path d="M12 2v8"/><path d="M18.36 6.64a9 9 0 1 1-12.73 0"/></svg></div></div><div class="grid-container"><div class="card" data-effect="FIREFLIES" data-tooltip="FIREFLIES" style="--glow:#a3ff00"><div class="icon-wrapper fireflies"><div class="firefly-main"></div><div class="firefly-orb"></div><div class="firefly-orb"></div></div><div class="variation-toast"></div></div><div class="card" data-effect="RAINBOW_SWIPE" data-tooltip="RAINBOW_SWIPE" style="--glow:#a855f7"><div class="icon-wrapper"><div class="rainbow-swipe"></div></div><div class="variation-toast"></div></div><div class="card" data-effect="AURORA" data-tooltip="AURORA" style="--glow:#ec4899"><div class="icon-wrapper"><div class="aurora"></div></div><div class="variation-toast"></div></div><div class="card" data-effect="COMET" data-tooltip="COMET" style="--glow:#f59e0b"><div class="icon-wrapper"><div class="comet"></div></div><div class="variation-toast"></div></div><div class="card" data-effect="CHASING_DOTS" data-tooltip="CHASING_DOTS" style="--glow:#10b981"><div class="icon-wrapper chasing-dots"><div class="dot"></div><div class="dot"></div><div class="dot"></div></div><div class="variation-toast"></div></div><div class="card" data-effect="CYLON" data-tooltip="CYLON" style="--glow:#06b6d4"><div class="icon-wrapper"><div class="cylon"><div class="cylon-bar"></div></div></div><div class="variation-toast"></div></div><div class="card" data-effect="DUAL_COMET" data-tooltip="DUAL_COMET" style="--glow:#f97316"><div class="icon-wrapper dual-comet"><div class="comet-1"></div><div class="comet-2"></div></div><div class="variation-toast"></div></div><div class="card" data-effect="SPARKLE_SWEEP" data-tooltip="SPARKLE_SWEEP" style="--glow:#8b5cf6"><div class="icon-wrapper"><div class="sparkle-sweep"><div class="sparkle-particle"></div><div class="sparkle-particle"></div><div class="sparkle-particle"></div><div class="sparkle-particle"></div><div class="sparkle-particle"></div><div class="sparkle-particle"></div></div></div><div class="variation-toast"></div></div><div class="card" data-effect="POLICE" data-tooltip="POLICE" style="--glow:#ef4444"><div class="icon-wrapper police"><div class="police-light"></div><div class="police-light"></div></div><div class="variation-toast"></div></div><div class="card" data-effect="PLASMA" data-tooltip="PLASMA" style="--glow:#14b8a6"><div class="icon-wrapper"><div class="plasma"></div></div><div class="variation-toast"></div></div><div class="card" data-effect="RAINBOW_GRADIENT" data-tooltip="RAINBOW_GRADIENT" style="--glow:#d946ef"><div class="icon-wrapper"><div class="rainbow-grad"></div></div><div class="variation-toast"></div></div><div class="card" data-effect="PULSE_WAVE" data-tooltip="PULSE_WAVE" style="--glow:#6366f1"><div class="icon-wrapper pulse-wave"><div class="ring"></div><div class="ring"></div><div class="ring"></div></div><div class="variation-toast"></div></div><div class="card" data-effect="SINGLE_RUNNER" data-tooltip="SINGLE_RUNNER" style="--glow:#f43f5e"><div class="icon-wrapper"><div class="single-runner"></div></div><div class="variation-toast"></div></div><div class="card" data-effect="AUDIO_VISUALIZER" data-tooltip="AUDIO_VISUALIZER" style="--glow:#22d3ee"><div class="icon-wrapper audio-viz"><div class="bar"></div><div class="bar"></div><div class="bar"></div><div class="bar"></div><div class="bar"></div></div><div class="variation-toast"></div></div><div class="card" data-effect="HEARTBEAT" data-tooltip="HEARTBEAT" style="--glow:#f472b6"><div class="icon-wrapper"><svg class="heartbeat-svg" viewBox="0 0 40 25"><polyline class="heartbeat-line" points="0,12 8,12 10,22 14,2 18,12 30,12 34,18 38,10 40,10" stroke="currentColor"/></svg></div><div class="variation-toast"></div></div></div></main><footer class="site-footer"><p>&copy; 2026 Pixels String.</p></footer><script>document.addEventListener("DOMContentLoaded",()=>{let a=document.getElementById("powerToggle");a&&((async()=>{try{var e=await fetch("/api/info");e.ok&&("on"===(await e.json()).power?(a.classList.remove("off"),a.classList.add("on"),a.setAttribute("aria-label","Toggle power off")):(a.classList.remove("on"),a.classList.add("off"),a.setAttribute("aria-label","Toggle power on")))}catch(e){console.error("Failed to fetch power state:",e)}})(),a.addEventListener("click",async()=>{var e=a.classList.contains("on")?"off":"on",s="/api/power?state="+e;a.classList.add("is-loading");try{var t=await fetch(s);t.ok?("on"==e?(a.classList.remove("off"),a.classList.add("on"),a.setAttribute("aria-label","Toggle power off")):(a.classList.remove("on"),a.classList.add("off"),a.setAttribute("aria-label","Toggle power on")),console.log("✅ "+s),a.classList.add("is-success")):(console.error("❌ API Error "+t.status),a.classList.add("is-error"))}catch(e){console.error("❌ Network Error: "+e.message),a.classList.add("is-error")}finally{a.classList.remove("is-loading"),setTimeout(()=>{a.classList.remove("is-success","is-error")},1e3)}}),a.addEventListener("keydown",e=>{"Enter"!==e.key&&" "!==e.key||(e.preventDefault(),a.click())}));let l=document.querySelectorAll(".card"),n=(l.forEach(e=>{e.setAttribute("role","button"),e.setAttribute("tabindex","0");var s=e.dataset.effect||"effect";e.setAttribute("aria-label",`Activate ${s.replace(/_/g," ")} effect`)}),null),d=new Map;l.forEach(i=>{let c=i.dataset.effect;d.set(i,0),i.addEventListener("click",async()=>{if(!i.classList.contains("is-loading")){let e=0;var t,a,o;n!==i?(l.forEach(e=>e.classList.remove("active-selected")),i.classList.add("active-selected"),d.set(i,1),e=0,n=i):(t=((e=d.get(i)||0)+1)%5,d.set(i,t));let s="";s=0===e?"/api/effect?name="+c:"/api/variation?index="+e,t=i,0!==(a=e)&&(t=t.querySelector(".variation-toast"))&&(t.textContent=a,t.classList.remove("active"),t.offsetWidth,t.classList.add("active")),i.classList.add("is-loading");try{var r=await fetch(s);r.ok?(i.classList.remove("is-loading"),i.classList.add("is-success"),console.log("✅ "+s)):(i.classList.remove("is-loading"),i.classList.add("is-error"),console.error("❌ API Error "+r.status))}catch(e){i.classList.remove("is-loading"),i.classList.add("is-error"),console.error("❌ Network Error: "+e.message)}finally{o=i,setTimeout(()=>{o.classList.remove("is-success","is-error","is-loading")},1e3)}}})})})</script></body></html>
 )HTML_DELIMITER";
 
 #endif // DASHBOARD_HTML_H
